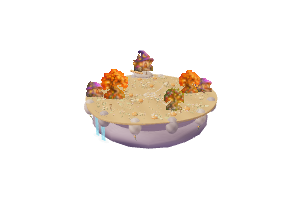
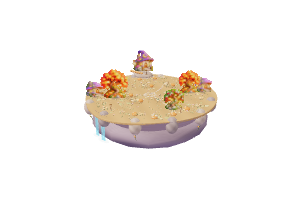
Soften fantasy gardens and give Chichi silver-gray fur

Changed region(s): [[0.54, 0.33, 0.72, 0.57], [0.27, 0.33, 0.45, 0.51], [0.42, 0.24, 0.51, 0.36]]

diff --git a/public/fantasy-art.js b/public/fantasy-art.js
@@ -15,7 +15,8 @@ export function loadFantasyArt() {
   const load = (name, accept) =>
     new Promise((resolve) => {
       new THREE.TextureLoader().load(
-        new URL(`./art/${name}.png`, document.baseURI).href,
+        new URL(`./art/${name}.png?v=soft-gardens-20261014`, document.baseURI)
+          .href,
         (image) => {
           image.colorSpace = THREE.SRGBColorSpace;
           image.minFilter = THREE.LinearMipmapLinearFilter;
@@ -49,8 +50,8 @@ export function treeCell(kind) {
         : 0;
 }
 
-// Camera-facing, depth-tested illustrations enrich the 3D landscape using one
-// draw call per island. Water, cats, terrain and moving rides remain geometry.
+// Upright illustrations stay rooted in the terrain as the camera tilts. Both
+// atlases share the scene's tone mapping and fog instead of glowing over it.
 export function illustratedScenery(entries, { trees = false } = {}) {
   const atlas = trees ? treeTexture : texture;
   if (!atlas || !entries.length) return null;
@@ -72,20 +73,43 @@ export function illustratedScenery(entries, { trees = false } = {}) {
     ),
   );
   const material = new THREE.ShaderMaterial({
-    uniforms: { atlas: { value: atlas }, recolor: { value: trees ? 0 : 1 } },
+    uniforms: THREE.UniformsUtils.merge([
+      THREE.UniformsLib.fog,
+      {
+        atlas: { value: atlas },
+        recolor: { value: trees ? 0 : 1 },
+        treeAtlas: { value: trees ? 1 : 0 },
+        gardenTime: { value: 0 },
+        gardenMotion: { value: 0 },
+      },
+    ]),
     side: THREE.DoubleSide,
+    fog: true,
     vertexShader: `
+      #include <fog_pars_vertex>
       attribute float artCell;
       attribute vec3 leafTint;
+      uniform float treeAtlas;
+      uniform float gardenTime;
+      uniform float gardenMotion;
       varying vec2 artUv;
       varying vec3 artTint;
       varying float cellNumber;
+      varying float heightShade;
       void main() {
-        vec4 center = modelViewMatrix * instanceMatrix * vec4(0.0, 0.0, 0.0, 1.0);
+        vec4 center = modelMatrix * instanceMatrix * vec4(0.0, 0.0, 0.0, 1.0);
         float width = length(instanceMatrix[0].xyz);
         float height = length(instanceMatrix[1].xyz);
-        center.xy += position.xy * vec2(width, height);
-        gl_Position = projectionMatrix * center;
+        vec3 right = normalize(vec3(viewMatrix[0][0], 0.0, viewMatrix[2][0]));
+        bool foliage = treeAtlas > 0.5 || artCell < 3.5;
+        float sway = foliage ? sin(gardenTime * 0.85 + center.x * 0.31 + center.z * 0.17)
+          * gardenMotion * height * 0.007 * uv.y * uv.y : 0.0;
+        center.xyz += right * (position.x * width + sway);
+        center.y += position.y * height;
+        vec4 mvPosition = viewMatrix * center;
+        gl_Position = projectionMatrix * mvPosition;
+        heightShade = mix(0.88, 1.0, smoothstep(0.0, 0.38, uv.y));
+        #include <fog_vertex>
         // The painterly branches approach cell boundaries. Insets prevent
         // adjacent blossoms from leaking into another billboard or its mipmaps.
         vec2 inset = vec2(artCell == 2.0 ? 0.075 : 0.035, 0.015);
@@ -95,11 +119,13 @@ export function illustratedScenery(entries, { trees = false } = {}) {
         cellNumber = artCell;
       }`,
     fragmentShader: `
+      #include <fog_pars_fragment>
       uniform sampler2D atlas;
       uniform float recolor;
       varying vec2 artUv;
       varying vec3 artTint;
       varying float cellNumber;
+      varying float heightShade;
       void main() {
         vec4 painted = texture2D(atlas, artUv);
         if (painted.a < 0.28) discard;
@@ -110,11 +136,14 @@ export function illustratedScenery(entries, { trees = false } = {}) {
           float luminance = dot(painted.rgb, vec3(0.2126, 0.7152, 0.0722));
           painted.rgb = mix(painted.rgb, artTint * luminance * 2.8, 0.95);
         }
-        gl_FragColor = vec4(painted.rgb, 1.0);
+        gl_FragColor = vec4(painted.rgb * heightShade, 1.0);
+        #include <tonemapping_fragment>
         #include <colorspace_fragment>
+        #include <fog_fragment>
       }`,
-    toneMapped: false,
   });
+  // Uniform merging clones textures; all islands must keep one shared atlas.
+  material.uniforms.atlas.value = atlas;
   const mesh = new THREE.InstancedMesh(geometry, material, entries.length);
   const dummy = new THREE.Object3D();
   entries.forEach((entry, i) => {
@@ -125,5 +154,57 @@ export function illustratedScenery(entries, { trees = false } = {}) {
   });
   mesh.name = "Illustrated fantasy gardens";
   mesh.frustumCulled = false;
+  mesh.userData.update = (time, reduced = false) => {
+    material.uniforms.gardenTime.value = time;
+    material.uniforms.gardenMotion.value = reduced ? 0 : 1;
+  };
+  // One inexpensive batch of soft contact shadows also works on phones where
+  // real-time shadow maps are disabled. Never bake a dark disk into the art.
+  const shadowGeometry = new THREE.PlaneGeometry(1, 1);
+  shadowGeometry.rotateX(-Math.PI / 2);
+  const shadows = new THREE.InstancedMesh(
+    shadowGeometry,
+    new THREE.ShaderMaterial({
+      uniforms: THREE.UniformsUtils.merge([
+        THREE.UniformsLib.fog,
+        { shadowColor: { value: new THREE.Color(0x454151) } },
+      ]),
+      transparent: true,
+      depthWrite: false,
+      fog: true,
+      vertexShader: `
+        #include <fog_pars_vertex>
+        varying vec2 shadowUv;
+        void main() {
+          shadowUv = uv;
+          vec4 mvPosition = modelViewMatrix * instanceMatrix * vec4(position, 1.0);
+          gl_Position = projectionMatrix * mvPosition;
+          #include <fog_vertex>
+        }`,
+      fragmentShader: `
+        #include <fog_pars_fragment>
+        uniform vec3 shadowColor;
+        varying vec2 shadowUv;
+        void main() {
+          float opacity = (1.0 - smoothstep(0.08, 0.5, length(shadowUv - 0.5))) * 0.23;
+          if (opacity < 0.002) discard;
+          gl_FragColor = vec4(shadowColor, opacity);
+          #include <tonemapping_fragment>
+          #include <colorspace_fragment>
+          #include <fog_fragment>
+        }`,
+    }),
+    entries.length,
+  );
+  entries.forEach((entry, i) => {
+    const width = entry.width || entry.height;
+    dummy.position.set(entry.x, entry.y ?? 0.15, entry.z);
+    dummy.scale.set(width * 0.62, 1, width * 0.44);
+    dummy.updateMatrix();
+    shadows.setMatrixAt(i, dummy.matrix);
+  });
+  shadows.name = "Soft garden contact shadows";
+  shadows.frustumCulled = false;
+  mesh.add(shadows);
   return mesh;
 }

diff --git a/public/biome-scenes.js b/public/biome-scenes.js
@@ -1012,17 +1012,6 @@ export function createBiomeScene(
       return true;
     });
     for (const tree of root.userData.trees) {
-      shape(
-        gardens,
-        "sphere",
-        new THREE.Color(style.ground).multiplyScalar(0.8).getHex(),
-        tree.x,
-        0.144,
-        tree.z,
-        1.0 * tree.scale,
-        0.014,
-        0.85 * tree.scale,
-      );
       if (hasFantasyArt(tree.trees))
         (tree.trees ? treeArt : originalTreeArt).push({
           ...tree,
@@ -1141,6 +1130,10 @@ export function createBiomeScene(
     if (detail.visible) {
       for (const object of animations) object.userData.update(time, reduced);
       coverRoot?.userData.update(time, reduced);
+      paintedHero?.userData.update(time, reduced);
+      illustrations?.userData.update(time, reduced);
+      for (const object of gardenRoot?.children || [])
+        object.userData.update?.(time, reduced);
     }
   };
   root.userData.dispose = () => disposeBiome(root);

diff --git a/public/cat-model.js b/public/cat-model.js
@@ -4,7 +4,7 @@ import {
   mergeVertices,
 } from "three/addons/utils/BufferGeometryUtils.js";
 export const moodNames = ["sleep", "crazy hungry", "happy"];
-export const CHICHI_FUR = 0x71655f;
+export const CHICHI_FUR = 0x747c84;
 const poses = {
   sleep: {
     height: 0.7,
@@ -92,7 +92,10 @@ export function createCat(mood = "happy", options = {}) {
       vertexColors: detailed,
     }),
     muzzle: new THREE.MeshStandardMaterial({
-      color: new THREE.Color(furColour).lerp(new THREE.Color(0xb7ada1), 0.38),
+      color: new THREE.Color(furColour).lerp(
+        new THREE.Color(options?.color == null ? 0xb8bec4 : 0xb7ada1),
+        0.38,
+      ),
       roughness: 0.97,
       vertexColors: detailed,
     }),

diff --git a/public/index.html b/public/index.html
@@ -5,7 +5,7 @@
     <meta name="viewport" content="width=device-width,initial-scale=1" />
     <meta name="theme-color" content="#eeeaf3" />
     <title>Чичи • мир маленьких чудес</title>
-    <link rel="stylesheet" href="./style.css?v=chichi-choices-20261014" />
+    <link rel="stylesheet" href="./style.css?v=chichi-soft-gardens-20261014" />
   </head>
   <body>
     <header>
@@ -352,7 +352,7 @@
     <div id="toast" role="status" aria-live="polite" hidden></div>
     <script
       type="module"
-      src="./dist/app.js?v=chichi-choices-20261014"
+      src="./dist/app.js?v=chichi-soft-gardens-20261014"
     ></script>
   </body>
 </html>

diff --git a/README.md b/README.md
@@ -6,7 +6,7 @@
 
 ## Чичи и ИИ
 
-Объёмная модель в `public/cat-model.js` создана по фото Чичи: тёплая серо-коричневая шерсть, оливково-золотые радужки с радиальными волокнами, мягкая мордочка, тёмный нос, тонкие светлые усы, высокие уши и толстый сужающийся хвост. Мелкие пряди объединены в геометрию; модель работает без внешних текстур. Три состояния ИИ сохранены:
+Объёмная модель в `public/cat-model.js` создана по фото Чичи: серебристо-серая шерсть и светлая серая мордочка, оливково-золотые радужки с радиальными волокнами, тёмный нос, тонкие светлые усы, высокие уши и толстый сужающийся хвост. Цвет шерсти компенсирует тёплое освещение мира, чтобы Чичи выглядела серой. Мелкие пряди объединены в геометрию; модель работает без внешних текстур. Три состояния ИИ сохранены:
 
 - `sleep`: закрытые глаза, низкая поза, спокойное дыхание;
 - `crazy hungry`: широко открытые глаза, открытый рот, беспокойный хвост;
@@ -26,7 +26,7 @@
 
 Магазин содержит 62 предмета с 3D-превью, поиском и категориями: игрушки, аттракционы, транспорт, места встреч, украшения и фермерские постройки. Есть эпические, легендарные и мистические горки, водные спуски, карусель, колесо, корабль, ракета, дирижабль, игрушки, библиотека, планетарий и площадки праздников.
 
-Все 24 острова получили отдельные палитры, неровные каменные берега, цветочные сады, извилистые дорожки, фонарики и разные ориентиры: от сакуры и грибных домов до обсерватории, ледяных башен, кораллов и часовщика. Оригинальный прозрачный художественный атлас добавляет подробную листву, пальмы, заснеженные ели и домики. Это обращённые к камере иллюстрации внутри 3D-сцены; рельеф, коты, вода и аттракционы остаются трёхмерными. Если атлас не загрузился, работает геометрическая растительность. Декоративные сады освобождают пространство под размещёнными предметами.
+Все 24 острова получили отдельные палитры, неровные каменные берега, цветочные сады, извилистые дорожки, фонарики и разные ориентиры: от сакуры и грибных домов до обсерватории, ледяных башен, кораллов и часовщика. Прозрачные художественные атласы добавляют листву, пальмы, заснеженные ели и домики с мягкими округлыми формами и мультяшным оздоблением. Их вертикальные иллюстрации поворачиваются к камере вокруг вертикальной оси, сохраняют опору на землю, используют общее тональное преобразование и туман сцены, а также мягкие контактные тени, доступные и на телефонах. Листва едва колышется; настройка уменьшения движения отключает это колыхание. Рельеф, коты, вода и аттракционы остаются трёхмерными. Если атлас не загрузился, работает геометрическая растительность. Декоративные сады освобождают пространство под размещёнными предметами.
 
 В пляжном биоме находится прозрачная бирюзовая лагуна с 36 разноцветными рыбками; озёра также есть в лунном саду, сакуре, пустыне, водном, коралловом и лотосовом биомах. Вода использует Fresnel, блики, процедурное отражение неба, рябь и световые узоры на дне; это WebGL-шейдеры, а не аппаратная трассировка лучей. Рыбки двигают хвостами и плавниками; водопады стекают с берегов.
 
